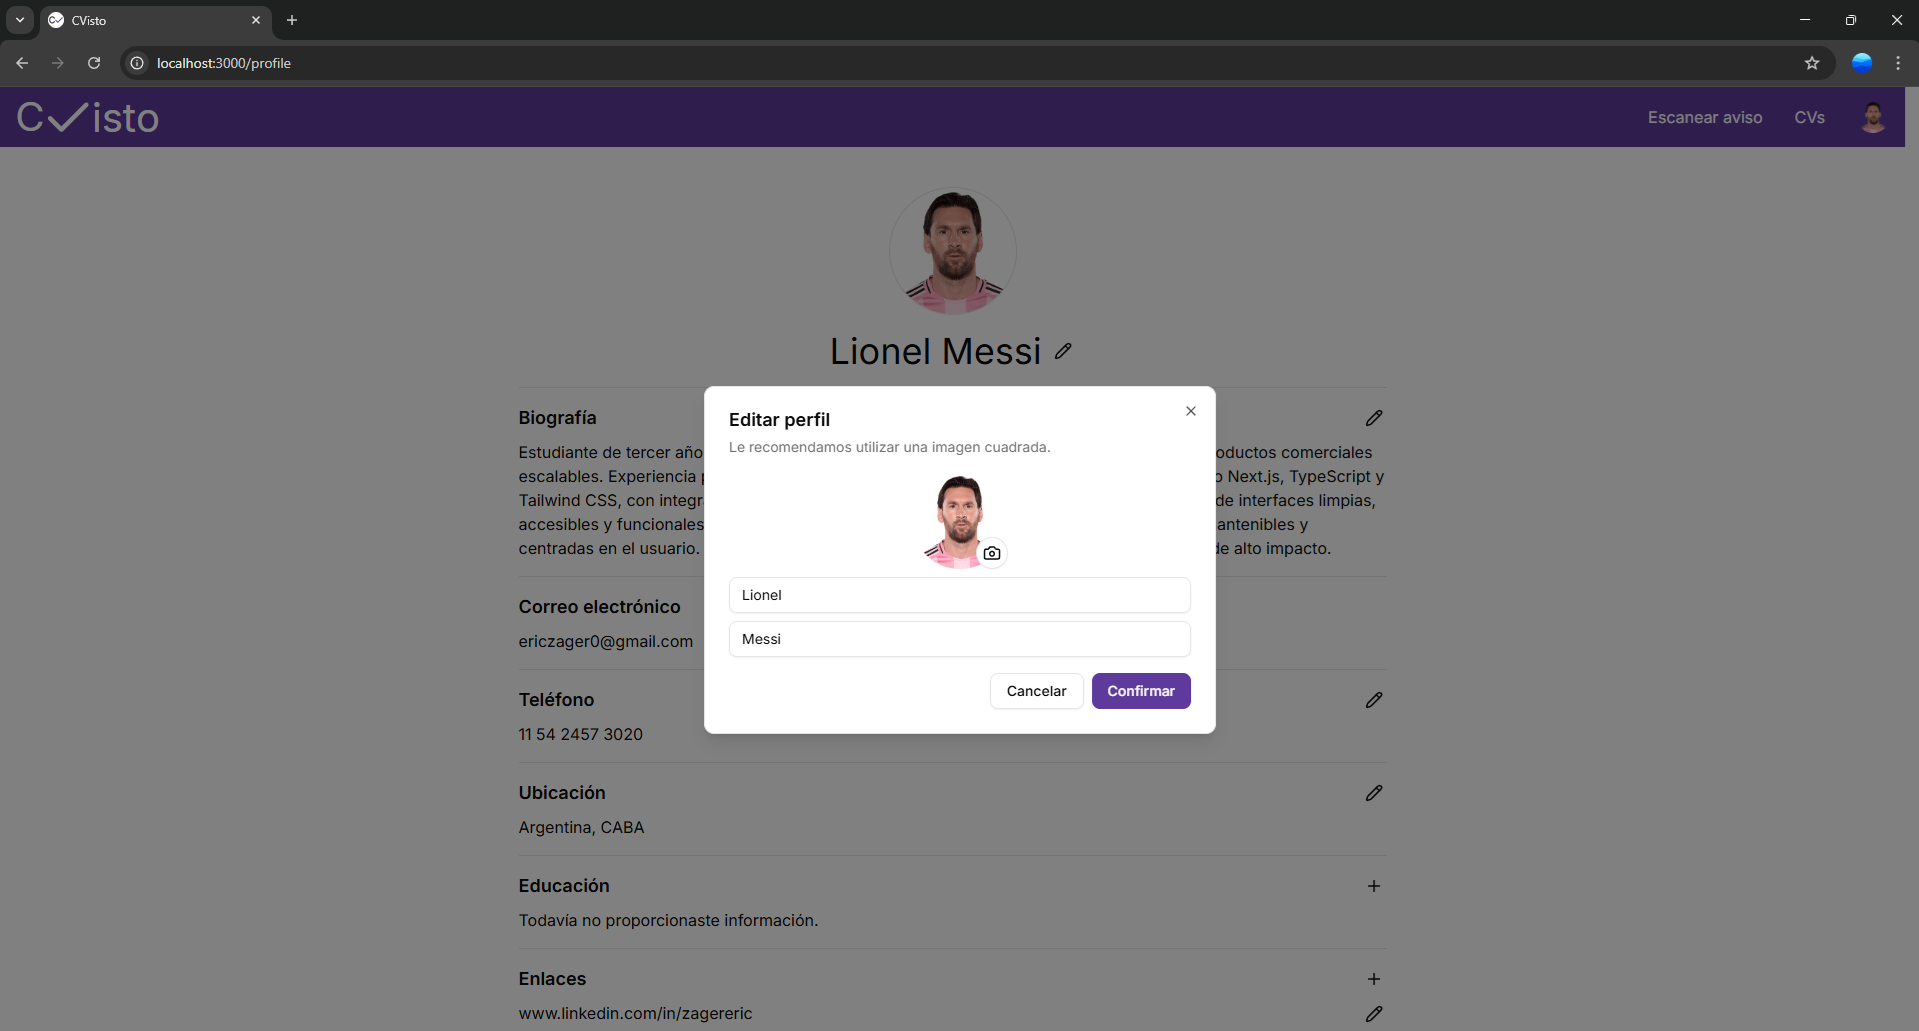
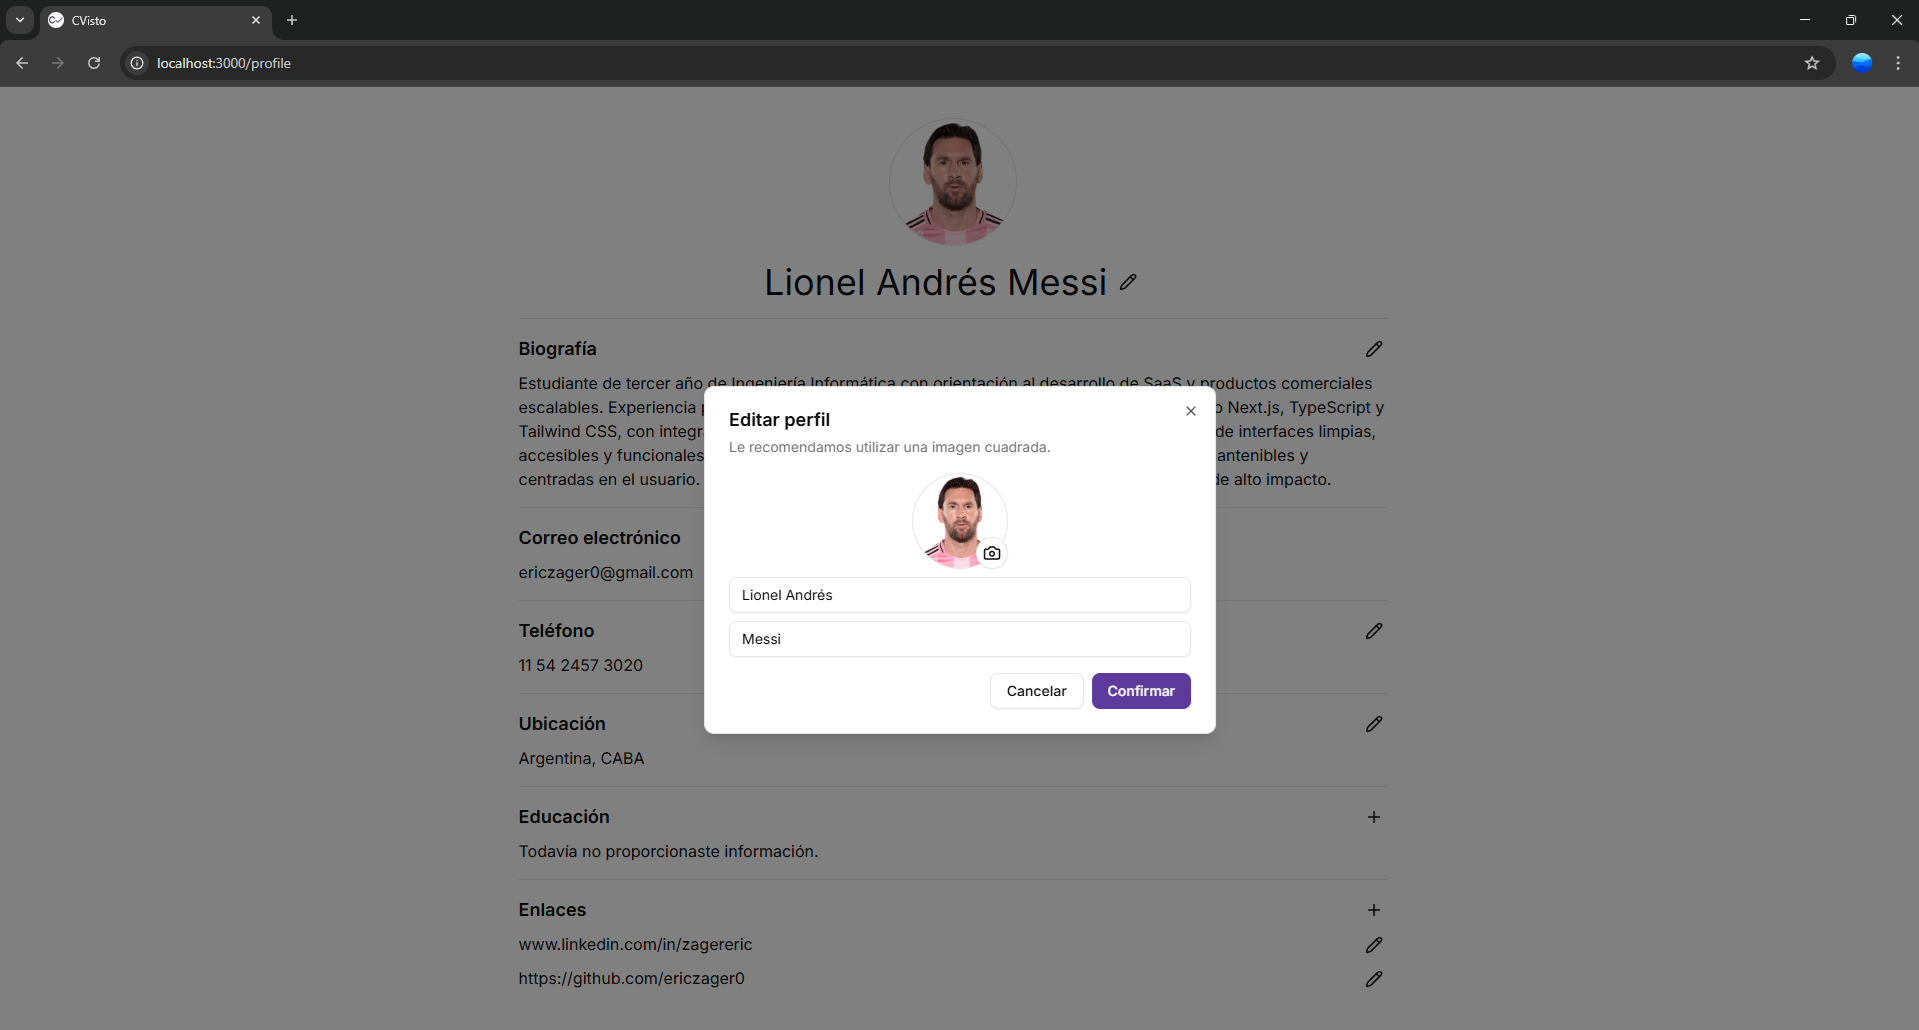
Actualización del README

diff --git a/src/app/actions.ts b/src/app/actions.ts
@@ -69,7 +69,6 @@ export async function updateProfile(_initialState: any, formData: FormData) {
   if (file && file.size > 0) {
     const arrayBuffer = await file.arrayBuffer();
     const buffer = Buffer.from(arrayBuffer);
-
     const uploadResult = await new Promise((resolve, reject) => {
       const uploadStream = cloudinary.uploader.upload_stream(
         {
@@ -85,8 +84,8 @@ export async function updateProfile(_initialState: any, formData: FormData) {
 
       uploadStream.end(buffer);
     });
-
     const imageUrl = (uploadResult as any).secure_url;
+
     await updateProfilePictureMutation(session?.user?.id as string, imageUrl);
   }
 

diff --git a/src/components/EditProfileDialog.tsx b/src/components/EditProfileDialog.tsx
@@ -31,7 +31,7 @@ export default function EditProfileDialog({
       {(pending, actionStarted, picturePreview, handleFileChange) => (
         <div className="flex flex-col gap-2 items-center">
           <div className="relative w-24 h-24">
-            <Avatar className="w-full h-full">
+            <Avatar className="w-full h-full border">
               <AvatarImage src={picturePreview || initialValue.picture} />
               <AvatarFallback />
             </Avatar>
